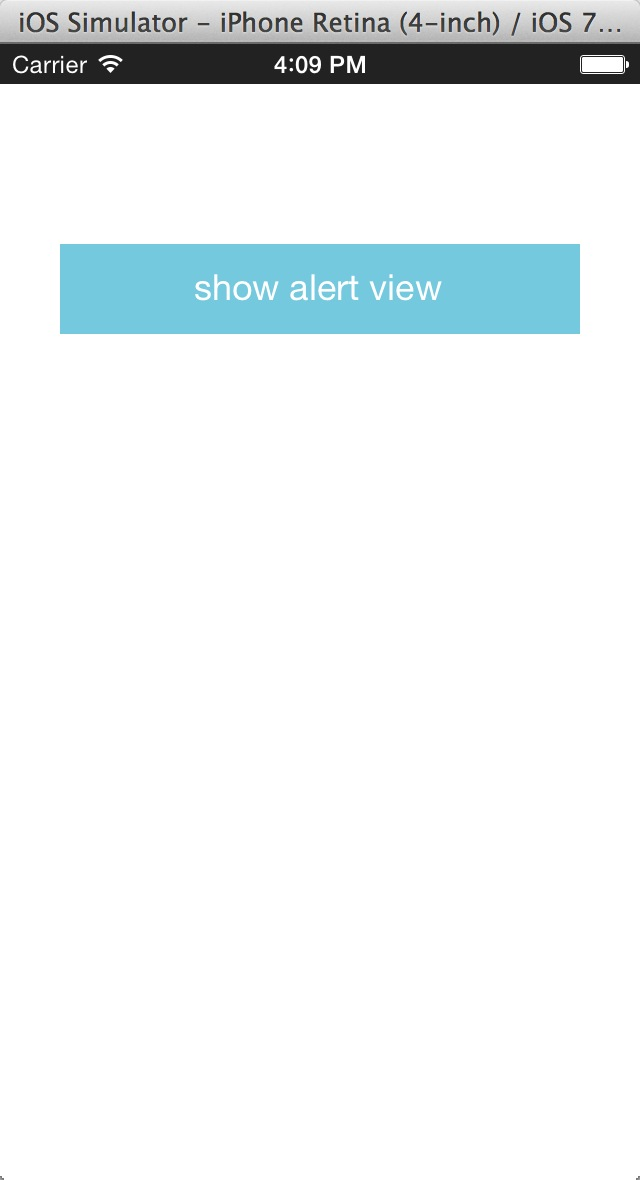
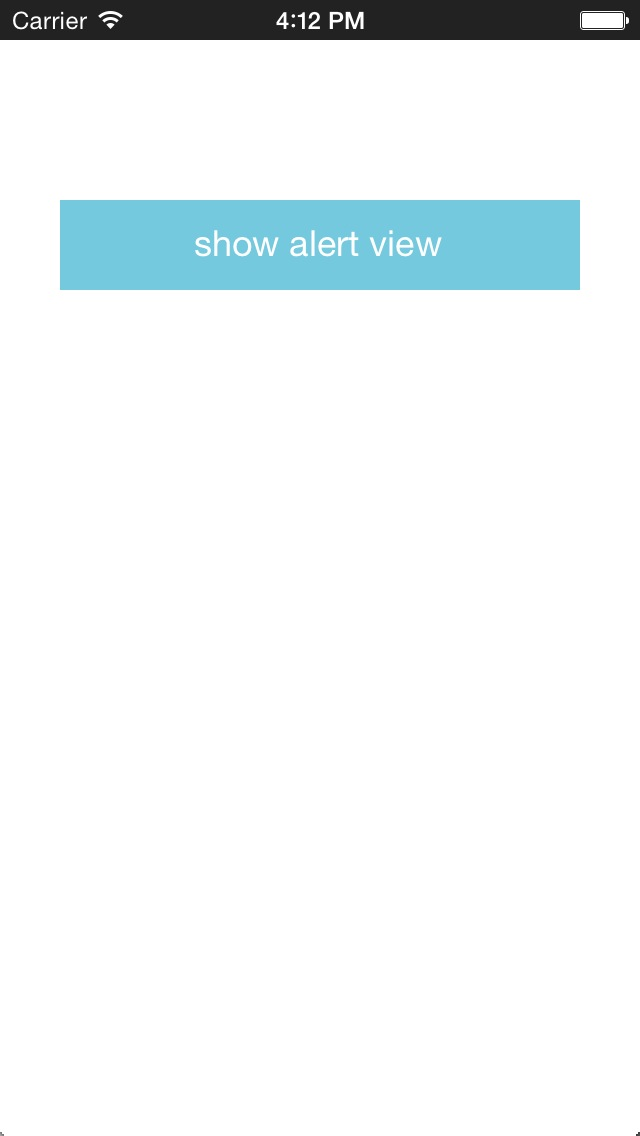
add hd image

Changed region(s): [[0.0938, 0.154, 0.9062, 0.3081], [0.0, 0.0, 1.0, 0.0924]]

diff --git a/README.md b/README.md
@@ -66,11 +66,12 @@ demo
 
 ###hd demo1
 
-<img src="https://raw.githubusercontent.com/JasonZengJ/CAlertView/master/demo1.png">
+<img src="https://raw.githubusercontent.com/JasonZengJ/CAlertView/master/demo1.png" height="568">
 
 ###hd demo2
 
-<img src="https://raw.githubusercontent.com/JasonZengJ/CAlertView/master/demo2.png">
+<img src="https://raw.githubusercontent.com/JasonZengJ/CAlertView/master/demo2.png" height="568">
+
 
 
 
